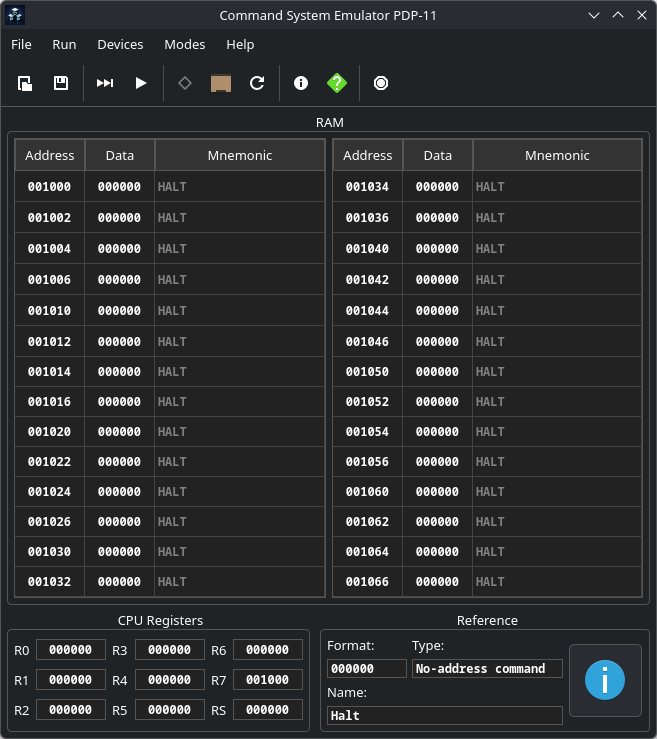
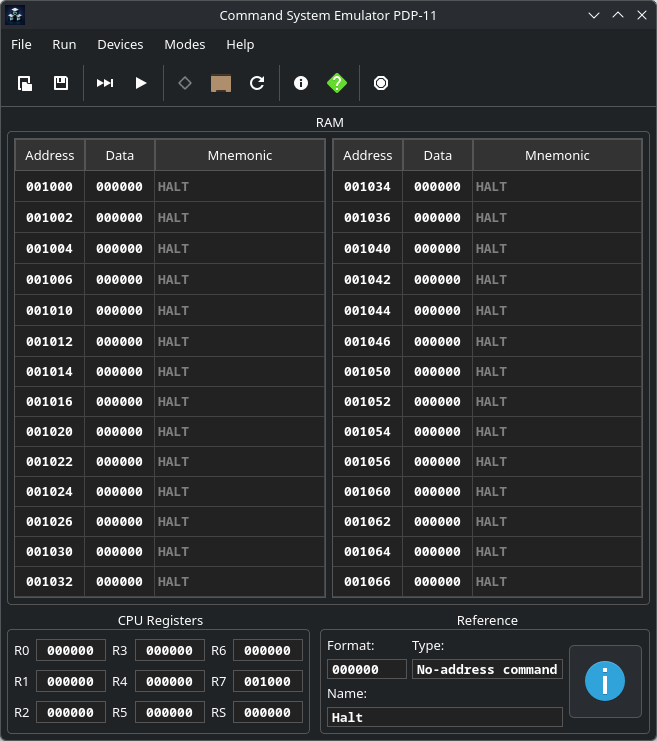
Added macOS to README

diff --git a/README.md b/README.md
@@ -2,11 +2,13 @@
 
 # 🖥️ Command System Emulator PDP-11
 
-![Linux Dark Mode](assets/Pictures/linux_dark.png)
+| 🐧 Linux (Dark) | 🪟 Windows (Light) | 🍎 macOS (Dark) |
+| :---: | :---: | :---: |
+| ![Linux](assets/Pictures/linux_dark.png) | ![Windows](assets/Pictures/windows_light.png) | ![macOS](assets/Pictures/macos_dark.png) |
 
 ![C++17](https://img.shields.io/badge/C++-17-blue.svg)
 ![Qt6](https://img.shields.io/badge/Qt-6.0+-green.svg)
-![Platform](https://img.shields.io/badge/Platform-Linux%20%7C%20Windows-lightgrey.svg)
+![Platform](https://img.shields.io/badge/Platform-Linux%20%7C%20Windows%20%7C%20macOS-lightgrey.svg)
 ![License](https://img.shields.io/badge/License-MIT-yellow.svg)
 
 **Command System Emulator PDP-11** is a cross-platform emulator of the classic PDP-11 architecture with a graphical user interface. The project was created for educational purposes to study computer architecture, assembly language, and the principles of processor operation.
@@ -29,12 +31,10 @@ The emulator is written in **C++17** using the **Qt6** framework. It supports on
     *   Graphical display (X coordinate `177570`, Y coordinate `177572`, Color / Draw trigger `177574`)
     *   Hardware timer with interrupt generation via vector `100(8)`.
 *   **Graphical Mode:** Supports rendering a 64x64 pixel grid with a custom 16-color palette (CGA / EGA-style) via procedural assembly commands.
-*   **Dynamic UI theme:** Automatic support for light and dark themes depending on your operating system settings (Linux / Windows).
+*   **Dynamic UI theme:** Automatic support for light and dark themes depending on your operating system settings (Linux / Windows / macOS).
 *   **Help system:** Built-in context help for commands and an included detailed reference guide in [**PDF**](Docs/PDP11.pdf) and [**Markdown**](Docs/PDP11.md) formats.
 *   **Bilingual support:** The application interface, built-in disassembler, context help for commands and detailed reference guide automatically adapt to your system's language (English / Russian).
 *   **Save and load:** Support for importing and exporting programs in the `.pdp` format.
-
-![Windows Light Mode](assets/Pictures/windows_light.png)
 
 ---
 
@@ -82,6 +82,32 @@ The project includes an automated packaging script that builds and installs the 
 sh setup_package.sh
 ```
 *After installation, you can launch the emulator directly from your Desktop Environment's application menu or by simply typing `pdp11` in the terminal. To uninstall, run `sudo pacman -R pdp11`.*
+
+### 🍎 Build and Installation on macOS (macOS 11.0+)
+
+The simplest way is to download the pre-compiled universal **`PDP11.dmg`** directly from the [**Releases**](https://github.com/Arta48/PDP11/releases) page. It natively supports both Apple Silicon (M1 / M2 / M3) and Intel-based Macs.
+
+To build the project from source manually:
+
+1. Install the necessary dependencies via the Homebrew package manager (CMake, Qt6):
+   ```bash
+   brew install cmake qt6
+   ```
+2. Clone the repository:
+   ```bash
+   git clone https://github.com/Arta48/PDP11.git
+   cd PDP11
+   ```
+3. Configure the build system, compile, and bundle all Qt dependencies into a portable `.dmg` installer:
+   ```bash
+   # Configure and build
+   cmake -B build -DCMAKE_BUILD_TYPE=Release
+   cmake --build build -j$(sysctl -n hw.ncpu)
+
+   # Link dependencies into the app bundle and generate DMG
+   macdeployqt build/PDP11.app -dmg
+   ```
+   *The generated `PDP11.dmg` file will be located inside the `build/` directory.*
 
 ### 🪟 Build on Windows
 

diff --git a/README_RU.md b/README_RU.md
@@ -1,10 +1,12 @@
 # 🖥️ Command System Emulator PDP-11
 
-![Linux Dark Mode](assets/Pictures/linux_dark_ru.png)
+| 🐧 Linux (Тёмная) | 🪟 Windows (Светлая) | 🍎 macOS (Тёмная) |
+| :---: | :---: | :---: |
+| ![Linux](assets/Pictures/linux_dark_ru.png) | ![Windows](assets/Pictures/windows_light_ru.png) | ![macOS](assets/Pictures/macos_dark_ru.png) |
 
 ![C++17](https://img.shields.io/badge/C++-17-blue.svg)
 ![Qt6](https://img.shields.io/badge/Qt-6.0+-green.svg)
-![Platform](https://img.shields.io/badge/Platform-Linux%20%7C%20Windows-lightgrey.svg)
+![Platform](https://img.shields.io/badge/Platform-Linux%20%7C%20Windows%20%7C%20macOS-lightgrey.svg)
 ![License](https://img.shields.io/badge/License-MIT-yellow.svg)
 
 **Command System Emulator PDP-11** — это кроссплатформенный эмулятор классической архитектуры PDP-11 с графическим интерфейсом. Проект создан в образовательных целях для изучения архитектуры ЭВМ, ассемблера и принципов работы процессора.
@@ -27,12 +29,10 @@
     *   Графический дисплей (Координата X `177570`, Координата Y `177572`, Цвет / Триггер отрисовки `177574`)
     *   Аппаратный таймер с генерацией прерываний по вектору `100(8)`.
 *   **Графический режим:** Поддержка вывода графики на экран разрешения 64x64 с 16-цветной палитрой (CGA / EGA) посредством процедурных команд ассемблера.
-*   **Динамическая тема оформления:** Автоматическая поддержка светлой и темной темы в зависимости от настроек вашей операционной системы (Linux / Windows).
+*   **Динамическая тема оформления:** Автоматическая поддержка светлой и темной темы в зависимости от настроек вашей операционной системы (Linux / Windows / macOS).
 *   **Справочная система:** Встроенная контекстная справка по командам и прилагаемый подробный справочник в форматах [**PDF**](Docs/PDP11%20RU.pdf) и [**Markdown**](Docs/PDP11%20RU.md).
 *   **Двуязычная поддержка:** Интерфейс приложения, встроенный дизассемблер, контекстная справка по командам и подробный справочник автоматически адаптируются под язык вашей системы (русский / английский).
 *   **Сохранение и загрузка:** Поддержка импорта и экспорта программ в формате `.pdp`.
-
-![Windows Light Mode](assets/Pictures/windows_light_ru.png)
 
 ---
 
@@ -80,6 +80,32 @@ sh compile.sh
 sh setup_package.sh
 ```
 *После завершения установки вы сможете запускать эмулятор прямо из меню приложений вашей системы или просто набрав `pdp11` в терминале. Для чистого удаления программы используйте `sudo pacman -R pdp11`.*
+
+### 🍎 Сборка и установка под macOS (macOS 11.0+)
+
+Самый простой способ — скачать готовый универсальный образ **`PDP11.dmg`** напрямую со страницы [**Релизов**](https://github.com/Arta48/PDP11/releases). Он нативно поддерживает как процессоры Apple Silicon (M1 / M2 / M3), так и платформы Intel.
+
+Для ручной сборки из исходных файлов:
+
+1. Установите необходимые зависимости через пакетный менеджер Homebrew (CMake, Qt6):
+   ```bash
+   brew install cmake qt6
+   ```
+2. Склонируйте репозиторий:
+   ```bash
+   git clone https://github.com/Arta48/PDP11.git
+   cd PDP11
+   ```
+3. Сконфигурируйте проект, скомпилируйте его и упакуйте все зависимости Qt во внешний образ `.dmg`:
+   ```bash
+   # Конфигурация и компиляция
+   cmake -B build -DCMAKE_BUILD_TYPE=Release
+   cmake --build build -j$(sysctl -n hw.ncpu)
+
+   # Линковка системных dylib-библиотек в бандл и сборка DMG
+   macdeployqt build/PDP11.app -dmg
+   ```
+   *Готовый установщик `PDP11.dmg` будет находиться в директории `build/`.*
 
 ### 🪟 Сборка под Windows
 